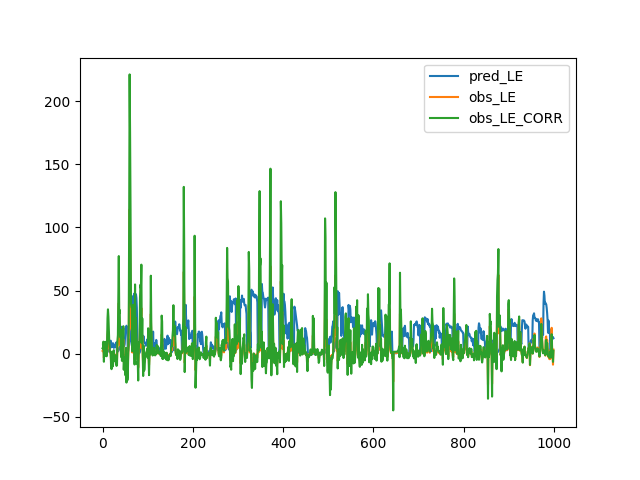
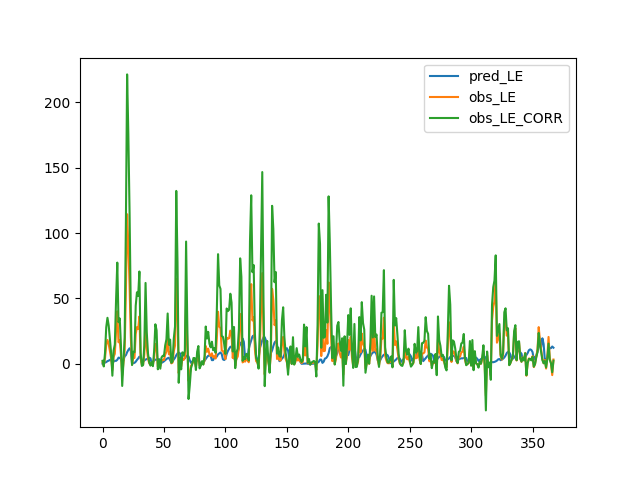
new command file, new result timeseries, and also I don't understand anything why are values not the same arrrrrghhh

diff --git a/python/test_photosynthesis_biochemical.py b/python/test_photosynthesis_biochemical.py
@@ -2,11 +2,11 @@ from photosynthesis_biochemical import photosynthesis_biochemical
 import torch
 
 test_data = [
-    {'Cc': torch.tensor([277.0525]), 'IPAR': torch.tensor([282.8877]), 'Csl': torch.tensor([384.4200]), 'ra': torch.tensor([10.4263]), 'rb': torch.tensor([10.1525]), 'Ts': torch.tensor([18.5000]), 'Pre': torch.tensor([843.3400]), 'Ds': torch.tensor([1360.6628]), 'Psi_L': torch.tensor([-0.0255]), 'Psi_sto_50': torch.tensor([-2.5000]), 'Psi_sto_00': torch.tensor([-0.5000]), 'CT': 3, 'Vmax': torch.tensor([42.]), 'Ha': torch.tensor([72.]), 'FI': torch.tensor([0.0810]), 'Oa': torch.tensor([210000.]), 'Do': torch.tensor([800.]), 'a1': torch.tensor([5.]), 'go': torch.tensor([0.0100]), 'gmes': torch.tensor([torch.inf]), 'rjv': torch.tensor([2.1000]), 'DS': torch.tensor([0.5000]), 'Rn': tensor([739.9410]), 'QG': tensor([84.1242]),},
-    {'Cc': torch.tensor([329.6417]), 'IPAR': torch.tensor([29.9987]), 'Csl': torch.tensor([385.2900]), 'ra': torch.tensor([28.1468]), 'rb': torch.tensor([16.4111]), 'Ts': torch.tensor([4.2335]), 'Pre': torch.tensor([829.6200]), 'Ds': torch.tensor([96.8961]), 'Psi_L': torch.tensor([-0.0168]), 'Psi_sto_50': torch.tensor([-2.5000]), 'Psi_sto_00': torch.tensor([-0.5000]), 'CT': 3, 'Vmax': torch.tensor([42.]), 'Ha': torch.tensor([72.]), 'FI': torch.tensor([0.0810]), 'Oa': torch.tensor([210000.]), 'Do': torch.tensor([800.]), 'a1': torch.tensor([5.]), 'go': torch.tensor([0.0100]), 'gmes': torch.tensor([torch.inf]), 'rjv': torch.tensor([2.1000]), 'DS': torch.tensor([0.5000]), 'Rn': tensor([147.1678]), 'QG': tensor([74.7663]),},
-    {'Cc': torch.tensor([318.8641]), 'IPAR': torch.tensor([1.0586]), 'Csl': torch.tensor([364.3700]), 'ra': torch.tensor([23.6161]), 'rb': torch.tensor([16.5921]), 'Ts': torch.tensor([8.8375]), 'Pre': torch.tensor([837.3350]), 'Ds': torch.tensor([279.8077]), 'Psi_L': torch.tensor([-0.0235]), 'Psi_sto_50': torch.tensor([-2.5000]), 'Psi_sto_00': torch.tensor([-0.5000]), 'CT': 3, 'Vmax': torch.tensor([42.]), 'Ha': torch.tensor([72.]), 'FI': torch.tensor([0.0810]), 'Oa': torch.tensor([210000.]), 'Do': torch.tensor([800.]), 'a1': torch.tensor([5.]), 'go': torch.tensor([0.0100]), 'gmes': torch.tensor([torch.inf]), 'rjv': torch.tensor([2.1000]), 'DS': torch.tensor([0.5000]), 'Rn': tensor([-17.7087]), 'QG': tensor([-18.7501]),},
-    {'Cc': torch.tensor([351.1793]), 'IPAR': torch.tensor([42.5301]), 'Csl': torch.tensor([397.3400]), 'ra': torch.tensor([15.4748]), 'rb': torch.tensor([13.6120]), 'Ts': torch.tensor([-3.4835]), 'Pre': torch.tensor([828.4850]), 'Ds': torch.tensor([112.5857]), 'Psi_L': torch.tensor([-0.3036]), 'Psi_sto_50': torch.tensor([-2.5000]), 'Psi_sto_00': torch.tensor([-0.5000]), 'CT': 3, 'Vmax': torch.tensor([42.]), 'Ha': torch.tensor([72.]), 'FI': torch.tensor([0.0810]), 'Oa': torch.tensor([210000.]), 'Do': torch.tensor([800.]), 'a1': torch.tensor([5.]), 'go': torch.tensor([0.0100]), 'gmes': torch.tensor([torch.inf]), 'rjv': torch.tensor([2.1000]), 'DS': torch.tensor([0.5000]), 'Rn': tensor([11.1133]), 'QG': tensor([-2.5979]),},
-    {'Cc': torch.tensor([285.0780]), 'IPAR': torch.tensor([221.2713]), 'Csl': torch.tensor([395.0300]), 'ra': torch.tensor([13.4421]), 'rb': torch.tensor([12.2295]), 'Ts': torch.tensor([19.1835]), 'Pre': torch.tensor([840.4300]), 'Ds': torch.tensor([1319.9600]), 'Psi_L': torch.tensor([-0.0402]), 'Psi_sto_50': torch.tensor([-2.5000]), 'Psi_sto_00': torch.tensor([-0.5000]), 'CT': 3, 'Vmax': torch.tensor([42.]), 'Ha': torch.tensor([72.]), 'FI': torch.tensor([0.0810]), 'Oa': torch.tensor([210000.]), 'Do': torch.tensor([800.]), 'a1': torch.tensor([5.]), 'go': torch.tensor([0.0100]), 'gmes': torch.tensor([torch.inf]), 'rjv': torch.tensor([2.1000]), 'DS': torch.tensor([0.5000]), 'Rn': tensor([582.7670]), 'QG': tensor([195.8533]),},
+    {'Cc': torch.tensor([277.0525]), 'IPAR': torch.tensor([282.8877]), 'Csl': torch.tensor([384.4200]), 'ra': torch.tensor([10.4263]), 'rb': torch.tensor([10.1525]), 'Ts': torch.tensor([18.5000]), 'Pre': torch.tensor([843.3400]), 'Ds': torch.tensor([1360.6628]), 'Psi_L': torch.tensor([-0.0255]), 'Psi_sto_50': torch.tensor([-2.5000]), 'Psi_sto_00': torch.tensor([-0.5000]), 'CT': 3, 'Vmax': torch.tensor([42.]), 'Ha': torch.tensor([72.]), 'FI': torch.tensor([0.0810]), 'Oa': torch.tensor([210000.]), 'Do': torch.tensor([800.]), 'a1': torch.tensor([5.]), 'go': torch.tensor([0.0100]), 'gmes': torch.tensor([torch.inf]), 'rjv': torch.tensor([2.1000]), 'DS': torch.tensor([0.5000])},#, 'Rn': torch.tensor([739.9410]), 'QG': torch.tensor([84.1242]),},
+    {'Cc': torch.tensor([329.6417]), 'IPAR': torch.tensor([29.9987]), 'Csl': torch.tensor([385.2900]), 'ra': torch.tensor([28.1468]), 'rb': torch.tensor([16.4111]), 'Ts': torch.tensor([4.2335]), 'Pre': torch.tensor([829.6200]), 'Ds': torch.tensor([96.8961]), 'Psi_L': torch.tensor([-0.0168]), 'Psi_sto_50': torch.tensor([-2.5000]), 'Psi_sto_00': torch.tensor([-0.5000]), 'CT': 3, 'Vmax': torch.tensor([42.]), 'Ha': torch.tensor([72.]), 'FI': torch.tensor([0.0810]), 'Oa': torch.tensor([210000.]), 'Do': torch.tensor([800.]), 'a1': torch.tensor([5.]), 'go': torch.tensor([0.0100]), 'gmes': torch.tensor([torch.inf]), 'rjv': torch.tensor([2.1000]), 'DS': torch.tensor([0.5000])},#, 'Rn': torch.tensor([147.1678]), 'QG': torch.tensor([74.7663]),},
+    {'Cc': torch.tensor([318.8641]), 'IPAR': torch.tensor([1.0586]), 'Csl': torch.tensor([364.3700]), 'ra': torch.tensor([23.6161]), 'rb': torch.tensor([16.5921]), 'Ts': torch.tensor([8.8375]), 'Pre': torch.tensor([837.3350]), 'Ds': torch.tensor([279.8077]), 'Psi_L': torch.tensor([-0.0235]), 'Psi_sto_50': torch.tensor([-2.5000]), 'Psi_sto_00': torch.tensor([-0.5000]), 'CT': 3, 'Vmax': torch.tensor([42.]), 'Ha': torch.tensor([72.]), 'FI': torch.tensor([0.0810]), 'Oa': torch.tensor([210000.]), 'Do': torch.tensor([800.]), 'a1': torch.tensor([5.]), 'go': torch.tensor([0.0100]), 'gmes': torch.tensor([torch.inf]), 'rjv': torch.tensor([2.1000]), 'DS': torch.tensor([0.5000])},#, 'Rn': torch.tensor([-17.7087]), 'QG': torch.tensor([-18.7501]),},
+    {'Cc': torch.tensor([351.1793]), 'IPAR': torch.tensor([42.5301]), 'Csl': torch.tensor([397.3400]), 'ra': torch.tensor([15.4748]), 'rb': torch.tensor([13.6120]), 'Ts': torch.tensor([-3.4835]), 'Pre': torch.tensor([828.4850]), 'Ds': torch.tensor([112.5857]), 'Psi_L': torch.tensor([-0.3036]), 'Psi_sto_50': torch.tensor([-2.5000]), 'Psi_sto_00': torch.tensor([-0.5000]), 'CT': 3, 'Vmax': torch.tensor([42.]), 'Ha': torch.tensor([72.]), 'FI': torch.tensor([0.0810]), 'Oa': torch.tensor([210000.]), 'Do': torch.tensor([800.]), 'a1': torch.tensor([5.]), 'go': torch.tensor([0.0100]), 'gmes': torch.tensor([torch.inf]), 'rjv': torch.tensor([2.1000]), 'DS': torch.tensor([0.5000])},#, 'Rn': torch.tensor([11.1133]), 'QG': torch.tensor([-2.5979]),},
+    {'Cc': torch.tensor([285.0780]), 'IPAR': torch.tensor([221.2713]), 'Csl': torch.tensor([395.0300]), 'ra': torch.tensor([13.4421]), 'rb': torch.tensor([12.2295]), 'Ts': torch.tensor([19.1835]), 'Pre': torch.tensor([840.4300]), 'Ds': torch.tensor([1319.9600]), 'Psi_L': torch.tensor([-0.0402]), 'Psi_sto_50': torch.tensor([-2.5000]), 'Psi_sto_00': torch.tensor([-0.5000]), 'CT': 3, 'Vmax': torch.tensor([42.]), 'Ha': torch.tensor([72.]), 'FI': torch.tensor([0.0810]), 'Oa': torch.tensor([210000.]), 'Do': torch.tensor([800.]), 'a1': torch.tensor([5.]), 'go': torch.tensor([0.0100]), 'gmes': torch.tensor([torch.inf]), 'rjv': torch.tensor([2.1000]), 'DS': torch.tensor([0.5000])},#, 'Rn': torch.tensor([582.7670]), 'QG': torch.tensor([-2.5979])}
 ]
 
 for x in test_data:

diff --git a/python/data.py b/python/data.py
@@ -21,15 +21,17 @@ def load_pipeline_data_dict(basepath, site_name, predictor_keys=None, constant_k
     predictor_path = os.path.join(basepath, f"Results_{site_name}.mat")
     observation_path = os.path.join(basepath, f"Res_{site_name}.mat")
 
-    trunc = 1000
+    trunc = 50000
+    print_k_points=10
     
     # load dat from both mat files
     predictor_data = scipy.io.loadmat(predictor_path)
     observation_data = scipy.io.loadmat(observation_path)
 
     #print(f"predictor_data={predictor_data}")
-    print(f"predictor_data[Ts]={predictor_data["Ta"]}")
-    print(f"predictor_data[\"Ts\"][:{trunc}]{predictor_data['Ta'][:trunc]}")
+    #print(f"observation_data={observation_data}")
+    #print(f"predictor_data[Ts]={predictor_data["Ta"]}")
+    #print(f"predictor_data[\"Ts\"][:{trunc}]{predictor_data['Ta'][:trunc]}")
 
     # build a dictionary with the desired values and the correct names
     ctx = "sun_H" # NOTE: Change here for different contexts (sunny/shaded, low/high vegetation)
@@ -38,7 +40,7 @@ def load_pipeline_data_dict(basepath, site_name, predictor_keys=None, constant_k
         predictor_keys = ["Cc", "IPAR", "Csl", "ra", "rb", "Ts", "Pre", "Ds", "Psi_L", "Rn", "QG", "rs"] # NOTE: added rs for debugging 
     if constant_keys is None:
         constant_keys = ["Psi_sto_50", "Psi_sto_00", "CT", "Vmax", 
-     "Ha", "FI", "Oa", "Do", "a1", "go", "gmes", "rjv"] # NOTE: missing DS. also why do we have integers for some constants?
+     "Ha", "FI", "Oa", "Do", "a1", "go", "gmes", "rjv", "DS"] # NOTE: missing DS. also why do we have integers for some constants?
     if output_keys is None:
         output_keys = ["LE_CORR"]
 
@@ -55,22 +57,21 @@ def load_pipeline_data_dict(basepath, site_name, predictor_keys=None, constant_k
             .astype(np.float32))
             .flatten()[:trunc] 
             for k,k_m in zip(predictor_keys, mapped_predictor_keys)}
-    for k,v in predictor_arrays.items():
-        print(f"predictor array [{k}] shape = {v.shape}")
+    #for k,v in predictor_arrays.items():
+    #    print(f"predictor array [{k}] shape = {v.shape}")
     mapped_constant_keys = key_mapping(constant_keys, ctx)
     constants = {k : torch.tensor(predictor_data[k_m][0].astype(np.float32)).flatten()[:trunc] for k,k_m in zip(constant_keys, mapped_constant_keys)}
     output_arrays = {k : torch.tensor(observation_data[k].astype(np.float32)).flatten()[:trunc] for k in output_keys}
-    for k,v in output_arrays.items():
-        print(f"output array [{k}] shape = {v.shape}")
+    #for k,v in output_arrays.items():
+    #    print(f"output array [{k}] shape = {v.shape}")
     #print(f"output_arrays={output_arrays}")
 
-    print(f"n_points before filter: {len(predictor_arrays["Cc"])}")
-    k_points=1
-    print(f"{k_points} first predictors Cc BEFORE: {predictor_arrays["Cc"][:k_points]}")
-    print(f"{k_points} first output LE BEFORE: {output_arrays[output_keys[0]][:k_points]}")
+    print(f"n_points before filter: {len(predictor_arrays['Cc'])}")
+    #print(f"{print_k_points} first predictors Cc BEFORE: {predictor_arrays["Cc"][:print_k_points]}")
+    #print(f"{print_k_points} first output LE BEFORE: {output_arrays[output_keys[0]][:print_k_points]}")
     
     def valid(i):
-        return True or ( # NOTE: this enables/disables the filtering
+        return (#True or ( # NOTE: this enables/disables the filtering
             not torch.isnan(output_arrays[output_keys[0]][i])  # Filter out nan output values! 
             and not predictor_arrays["Cc"][i] == 0
             and not predictor_arrays["IPAR"][i] == 0
@@ -80,14 +81,13 @@ def load_pipeline_data_dict(basepath, site_name, predictor_keys=None, constant_k
     n = predictor_arrays[predictor_keys[0]].shape[0]
     n = trunc
     data = [
-        ({ k : predictor_arrays[k][i] for k in predictor_arrays } | constants | {"DS" : 0.5},
+        ({ k : predictor_arrays[k][i] for k in predictor_arrays } | constants | {"DS_" : 0.5},
         output_arrays[output_keys[0]][i]) # For now, we assume a single output
         for i in range(n) if valid(i) # Filter out nan output values! 
     ]
 
     print(f"n_points after filter: {len(data)}")
-    k_points=1
-    print(f"first {k_points} data points:\n{data[:k_points]}")
+    print(f"first {print_k_points} data points:\n{data[:print_k_points]}")
 
     return data
 

diff --git a/python/main.py b/python/main.py
@@ -9,27 +9,41 @@ import data
 import plot
 
 
-def main():
-    base_path = os.path.expanduser(
-        "~/epfl/semester_project/databases/T_C_Input_and_Output_Pure_Physics/"
-    )
-    site_name = "CH-Dav"
-    other_site_name = "CH-Dav"
+def debug_pipeline(base_path, site_name):
+    output_keys=["LE"]
+    LE_data = data.load_pipeline_data_dict(base_path, site_name, output_keys=output_keys) # NOTE: Could use LE_CORR
+    pipeline = train.make_pipeline(None, None, output_rs=True)
+    groundtruth_rs = []
+    groundtruth_LE = []
+    pred_rs = []
+    pred_LE = []
+    for x, y in LE_data[:10]:
+        x['CT'] = 3
+        Q_LE, rs = pipeline(x)
+        pred_rs.append(rs)
+        pred_LE.append(Q_LE)
+        groundtruth_rs.append(x['rs'])
+        groundtruth_LE.append(y)
 
-    #pipeline_data = data.load_pipeline_data_dict(base_path, site_name)
-#    pipeline_data = data.load_pipeline_data_tensor(base_path, site_name)
+        print(f"x = {x}")
+        print(f"pred rs={rs}")
+        print(f"pred Q_LE={Q_LE}")
+        print(f"obs rs = {x['rs']}")
+        print(f"obs Q_LE = {y}")
 
+
+def plot_timeseries(base_path, site_name):
     ##### plot stuff
     print("Loading LE")
-    LE_data = data.load_pipeline_data_dict(base_path, other_site_name, output_keys=["LE"])
+    LE_data = data.load_pipeline_data_dict(base_path, site_name, output_keys=["LE"])
     print("Loading LE_CORR")
-    LE_corr_data = data.load_pipeline_data_dict(base_path, other_site_name, output_keys=["LE_CORR"])
+    LE_corr_data = data.load_pipeline_data_dict(base_path, site_name, output_keys=["LE_CORR"])
     pipeline = train.make_pipeline(None, None)
     output_LE = []
     groundtruth_LE = []
     groundtruth_LE_CORR = []
     for x, y in LE_data:
-        print(f"x = {x}")
+        #print(f"x = {x}")
         x['CT'] = 3
         output_LE.append(pipeline(x))
         groundtruth_LE.append(y)
@@ -38,7 +52,23 @@ def main():
     plot.time_series_plot(timeseries=[(output_LE, "pred_LE"), (groundtruth_LE, "obs_LE"), (groundtruth_LE_CORR, "obs_LE_CORR")], name="LE_comparaison", show=True)
     #####
 
-    #gsCO2_model, Vmax_model = train.train_pipeline(pipeline_data)
+def train_pipeline(base_path, site_name):
+    pipeline_data = data.load_pipeline_data_dict(base_path, site_name, output_keys=["LE_CORR"])
+    gsCO2_model, Vmax_model = train.train_pipeline(pipeline_data)
+
+
+def main():
+    base_path = os.path.expanduser(
+        "~/epfl/semester_project/databases/T_C_Input_and_Output_Pure_Physics/"
+    )
+    #site_name = "CH-Dav"
+    site_name = "DE-Tha"
+
+    debug_pipeline(base_path, site_name)
+
+
+
+
 
 
 if __name__ == "__main__":

diff --git a/python/train.py b/python/train.py
@@ -119,7 +119,7 @@ def train_pipeline(train_data):
     #opt = torch.optim.Adam(gsCO2_model.parameters() + Vmax_model.parameters(), lr=3e-4)
     opt = torch.optim.Adam(gsCO2_model.parameters(), lr=1e-2)
 
-    epochs = 10000
+    epochs = 4000
 
     losses = train_general(model_wrapper, loss, opt, epochs, data_iterator)
 
@@ -132,7 +132,7 @@ def train_pipeline(train_data):
     return gsCO2_model, Vmax_model
 
 
-def make_pipeline(gsCO2_model, Vmax_model):
+def make_pipeline(gsCO2_model, Vmax_model, output_rs=False):
 
     # define constants. Doing our function structure that way allows to store the constants cleanly
     # constants = ... # NOTE: Might not be necessary
@@ -148,7 +148,7 @@ def make_pipeline(gsCO2_model, Vmax_model):
         qle_predictors = {k: v for k, v in predictors.items() if k in qle_params}
         qle_predictors.__delitem__("rs") # TODO: temporary debug fix
         Q_LE = differentiable_relations.Q_LE(rs=rs, **qle_predictors)
-        return Q_LE
+        return Q_LE, predictors["rs"] if output_rs else Q_LE
 
     return pipeline
 

diff --git a/python/photosynthesis_biochemical.py b/python/photosynthesis_biochemical.py
@@ -229,7 +229,7 @@ def photosynthesis_biochemical(Cc,IPAR,Csl,ra,rb,Ts,Pre,Ds,Psi_L,Psi_sto_50,Psi_
         #print(f"while the empirical version would have been: {emp_gsCO2}")
     
     
-    #gsCO2[gsCO2<go]=go # QUESTION: Is gsCO2 an array? can it hold more than one value? NOTE: Disable for training? Can it pass gradients? TODO: Why can't we have this? we get : {RuntimeError: shape mismatch: value tensor of shape [8] cannot be broadcast to indexing result of shape [0]}
+    gsCO2[gsCO2<go]=go # QUESTION: Is gsCO2 an array? can it hold more than one value? NOTE: Disable for training? Can it pass gradients? TODO: Why can't we have this? we get : {RuntimeError: shape mismatch: value tensor of shape [8] cannot be broadcast to indexing result of shape [0]}
     # using the data in the paper, we may need to add parameters to the function
 
     rsCO2=1/gsCO2 ### [ s m^2 / umolCO2 ] Stomatal resistence or Canopy 

diff --git a/python/plot.py b/python/plot.py
@@ -69,8 +69,8 @@ def time_series_plot(timeseries, name="timeseries", show=False):
     n = len(timeseries[0][0])
     r = range(n)
     for timeserie, subname in timeseries:
-        print(f"plotting {subname}... (shape={len(timeserie)})")
-        print(f"timeserie: {timeserie}")
+        #print(f"plotting {subname}... (shape={len(timeserie)})")
+        #print(f"timeserie: {timeserie}")
         plt.plot(r, timeserie, label=subname)
 
     plt.legend()

diff --git a/useful_commands.md b/useful_commands.md
@@ -1,0 +1,1 @@
+~/local_programs/matlab/bin/matlab -batch "addpath('../matlab_code/t-and-c/T&C_file_model/T&C_CODE/'); test_photosynthesis_biochemical"
